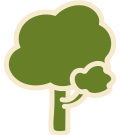
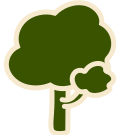
replaces colors for semibosque and bosque

diff --git a/style.css b/style.css
@@ -58,8 +58,8 @@
 
     --color-desierto: #bc5006;/* #FFA439;*/
     --color-semidesierto: #dab28d;/* #F2D6BA;*/
-    --color-semibosque: #c7ce30;/*#6C8B3C;*/
-    --color-bosque: #6d711f; /*#1A5B2E;*/
+    --color-semibosque: #e4d25d;/* #c7ce30;/*#6C8B3C;*/
+    --color-bosque: #395300;/*#6d711f; /*#1A5B2E;*/
 
     background-color: var(--color-bg);
 
